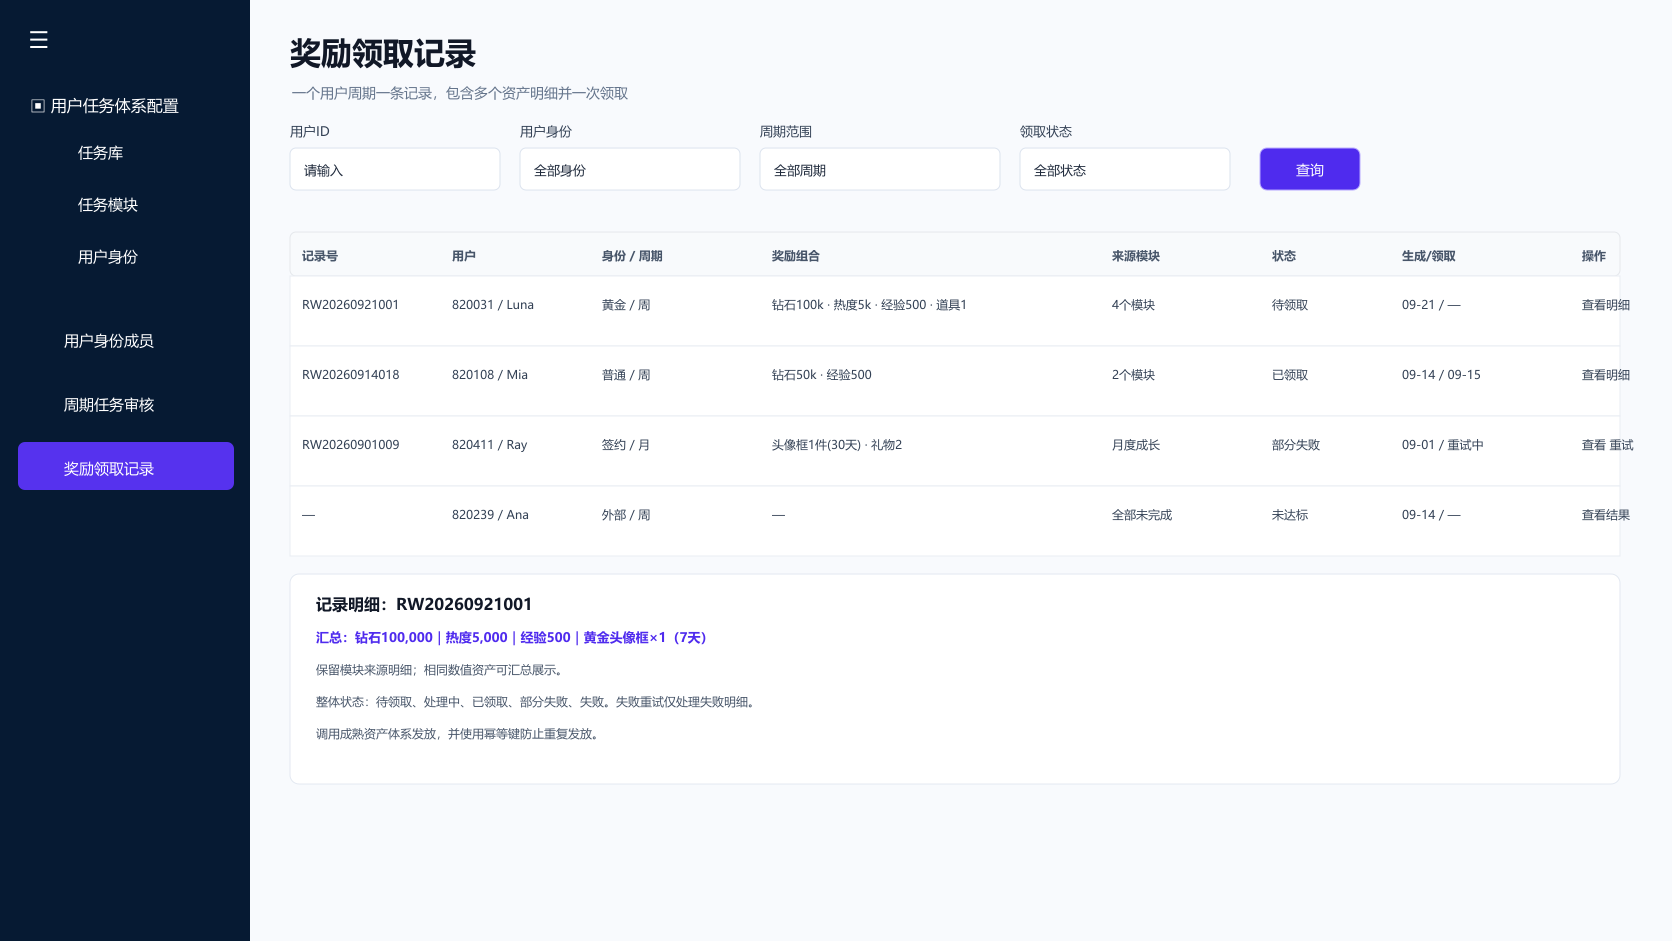
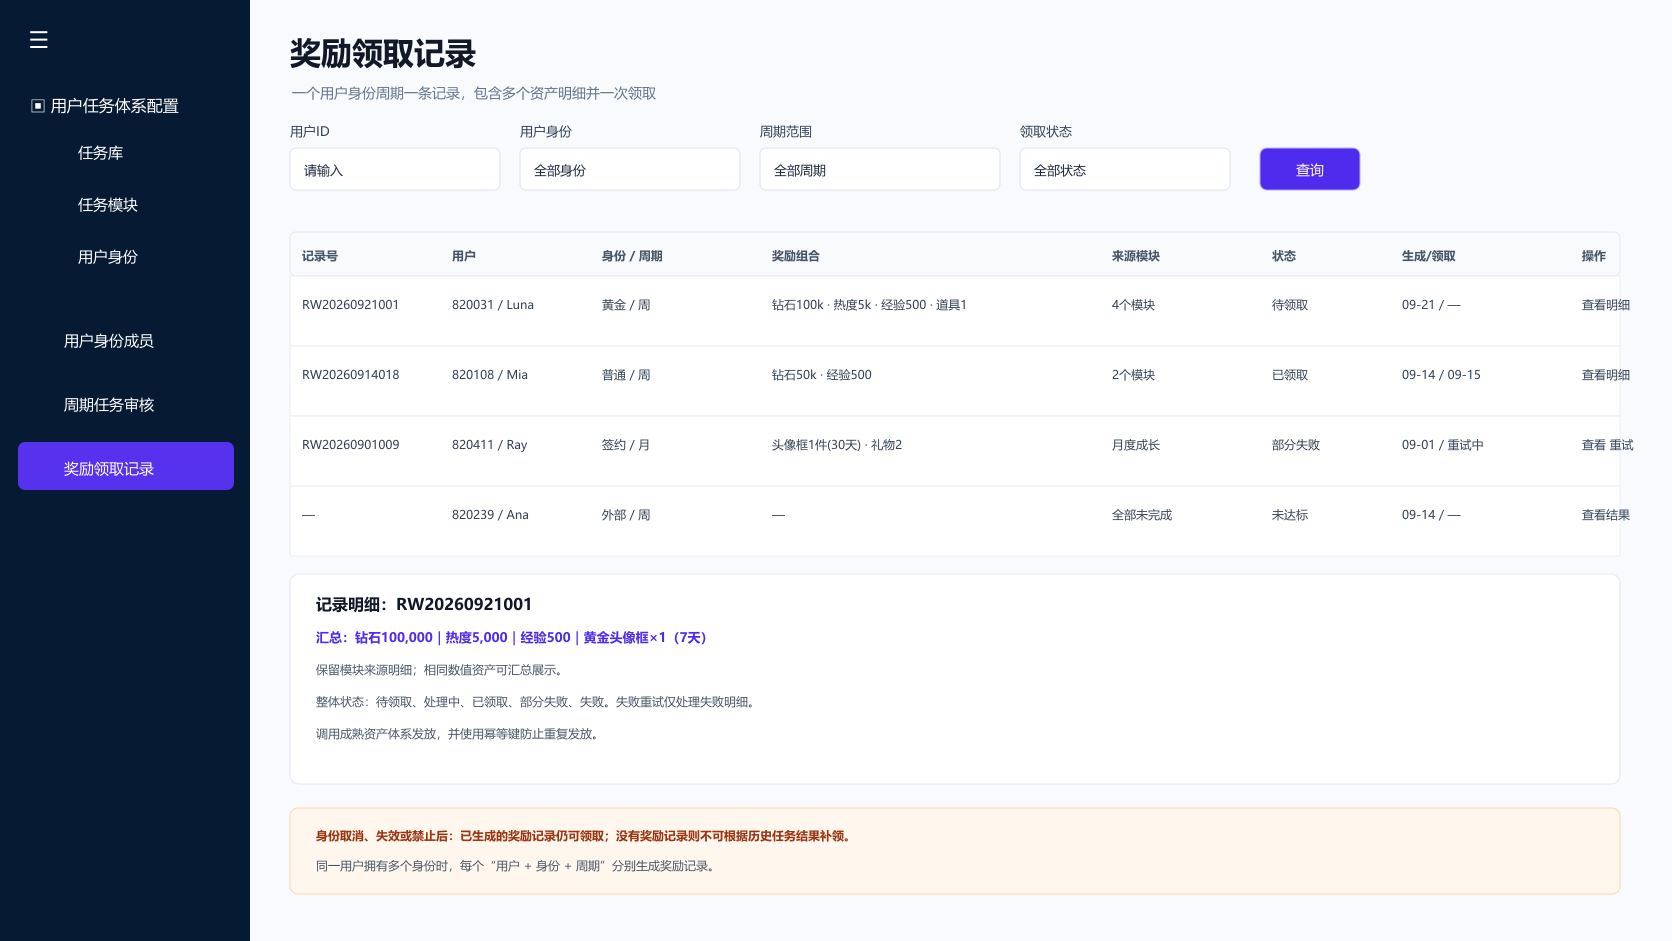
任务体系6

Changed region(s): [[0.1866, 0.8629, 0.4976, 0.9554], [0.2177, 0.0925, 0.4043, 0.1233]]

diff --git a/sano用户任务体系/维护规范.md b/sano用户任务体系/维护规范.md
@@ -51,12 +51,14 @@
 - 用户身份只配置资格、规则和任务模块关联，不实现具体任务计算。
 - 任务模块管理模块周期、任务项组合、小周期任务完成数量与连续要求，以及模块奖励策略。
 - 身份与任务模块关联只保存身份ID、任务模块ID和App展示顺序，不覆盖模块自身属性。
+- 同一用户允许拥有多个身份；各身份独立生成模块快照、任务结果、审核记录和奖励记录，不跨身份复用运行结果。
 - 一个任务项对应一个固定执行器实现；任务参数JSON和结果定义JSON由技术按执行器协议维护。
 - 任务执行器只处理本任务独有输入，不感知用户身份、其他任务、模块奖励和整周奖励。
 - 任务执行器统一输出`completed`、`resultText`、`metrics`、`detailRendererCode`和`detailData`。模块聚合器根据关联配置计算最少完成周期数和最长连续周期数；公共列表不解析`resultText`或`detailData`。
 - H5模块列表和任务列表必须使用公共组件；模块列表不得展示具体任务指标。任务详情通过技术维护的渲染器编码加载独立组件，并按版本化协议解析详情数据。
 - 运营不直接编辑策略JSON。每种策略必须同时提供策略编码、配置校验规则、结构化表单和独立执行器；周任务快照冻结策略配置。
 - 日、周、月周期快照冻结当期身份、模块、任务参数、说明和奖励，后续配置修改不得改变历史周期。
+- 奖励记录生成后不再依赖身份当前状态。身份取消、失效或禁止不撤销已生成记录；未生成奖励记录时不得根据历史任务结果补领。
 - App必须覆盖身份申请、审核状态、任务查看与完成、材料提交、结果说明、奖励领取和历史查询。
 
 ## 7. 每轮迭代检查

diff --git a/sano用户任务体系/设计/README.md b/sano用户任务体系/设计/README.md
@@ -17,6 +17,8 @@
 - 周/月超过上一周期的未领取奖励视为已放弃；H5不设置独立奖励记录页。
 - 原型文件使用`端类型-一级模块-二级功能-页面序号-页面名称`命名，例如`admin-01-02-03-管理关联任务抽屉`、`H5-02-01-02-日任务日期选择器`。
 - 页面编号一经分配即保持稳定；新增页面只在所属二级功能下追加页面序号，文档展示顺序不反向改变文件编号。
+- 同一用户可以拥有多个身份，但各身份周期快照、任务结果、审核与奖励记录独立，不跨身份复用。
+- 身份取消、失效或禁止后，已经生成的奖励记录仍可领取；没有奖励记录则不可补领。
 - 配置菜单拆分为任务库、任务模块、用户身份三个子菜单，不再使用任务库内的二级页签。
 - 任务库采用左右结构，左侧筛选和选择任务项，右侧直接完成任务详情查看、新增、编辑与保存，不再使用任务项抽屉。
 - 任务模块主页面保留“基础信息、关联任务、奖励配置”三段完整展示；关系和奖励的实际修改使用抽屉，选择对象和编辑单条明细使用弹窗。

diff --git a/sano用户任务体系/README.md b/sano用户任务体系/README.md
@@ -13,7 +13,8 @@
 - 任务执行器统一输出`completed`、`resultText`、`metrics`、`detailRendererCode`和`detailData`；模块聚合器计算最少完成周期数与最长连续周期数。
 - 模块内全部任务要求完成才获得模块奖励；奖励策略支持无奖励、固定奖励和按任务指标阶梯奖励。
 - 奖励支持金币、钻石、经验、热度、穿戴道具和直播间礼物等多资产组合。
-- 系统按完整自然周期生成快照，审核通过后生成一条多明细待领取记录，由用户一次领取。
+- 系统按完整自然周期和用户身份分别生成快照；同一用户可以拥有多个身份，但各身份任务结果与奖励独立、不跨身份复用。
+- 每个用户身份周期审核通过后生成一条多明细待领取记录，由用户一次领取。身份后续取消、失效或禁止不撤销已生成奖励记录；没有奖励记录则不可补领。
 
 ## 目录结构
 
